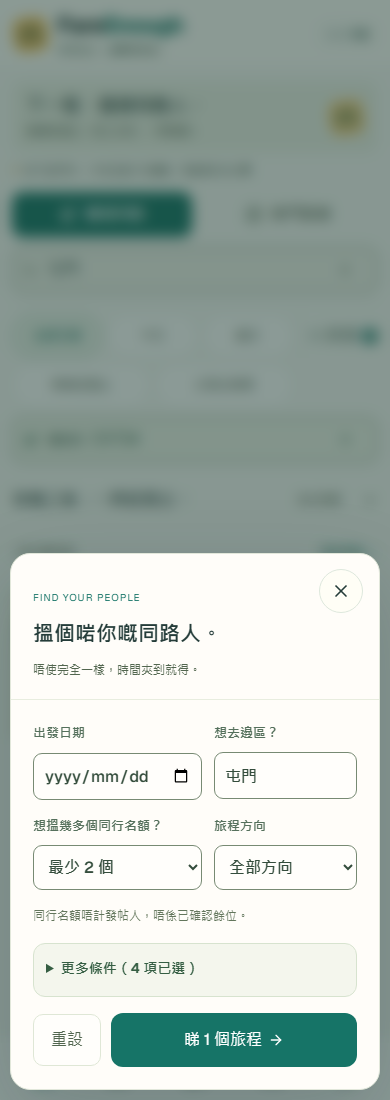
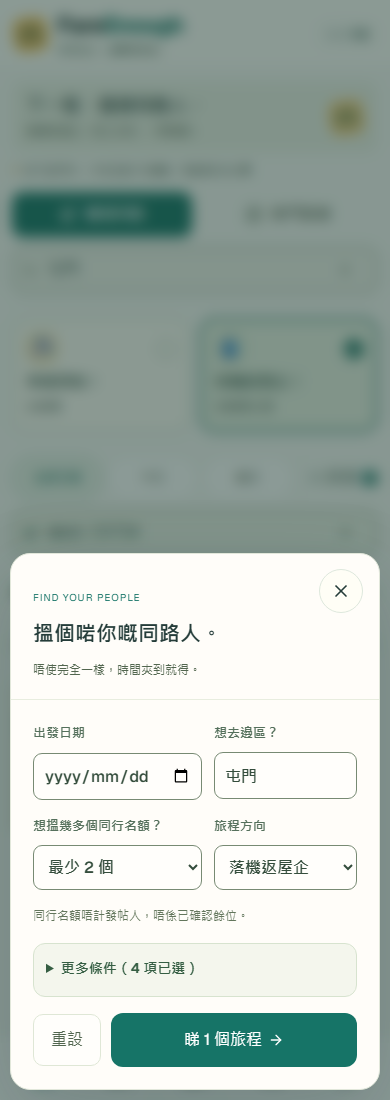
Refine FareEnough airport direction selection

diff --git a/src/app/v2-preview/discovery.tsx b/src/app/v2-preview/discovery.tsx
@@ -324,6 +324,29 @@ export default function Discovery({ today }: { today: string }) {
               )}
             </label>
           </div>
+          {category === "airport" && (
+            <div className={s.airportDirections} role="group" aria-label="機場方向">
+              {([
+                ["to_airport", "✈", "準備飛啦！", "去機場"],
+                ["from_airport", "🧳", "落機返屋企！", "由機場出發"],
+              ] as const).map(([value, icon, title, subtitle]) => (
+                <button
+                  key={value}
+                  type="button"
+                  className={s.airportDirection}
+                  aria-pressed={direction === value}
+                  onClick={() => setDirection(direction === value ? "all" : value)}
+                >
+                  <span className={s.directionIcon} aria-hidden="true">{icon}</span>
+                  <span className={s.directionTitle}>{title}</span>
+                  <span className={s.directionSubtitle}>{subtitle}</span>
+                  <span className={s.directionCheck} aria-hidden="true">
+                    {direction === value && <Check size={14} strokeWidth={3} />}
+                  </span>
+                </button>
+              ))}
+            </div>
+          )}
           <div className={s.filterBar}>
             <div className={s.quickFilters} data-category={category}>
               <button aria-pressed={!day} onClick={() => setDay("")}>
@@ -343,30 +366,7 @@ export default function Discovery({ today }: { today: string }) {
               >
                 聽日
               </button>
-              {category === "airport" ? (
-                <>
-                  <button
-                    aria-pressed={direction === "from_airport"}
-                    onClick={() =>
-                      setDirection(
-                        direction === "from_airport" ? "all" : "from_airport",
-                      )
-                    }
-                  >
-                    落機返屋企
-                  </button>
-                  <button
-                    aria-pressed={direction === "to_airport"}
-                    onClick={() =>
-                      setDirection(
-                        direction === "to_airport" ? "all" : "to_airport",
-                      )
-                    }
-                  >
-                    出發去機場
-                  </button>
-                </>
-              ) : (
+              {category === "routes" && (
                 <>
                   <button
                     aria-pressed={period === "morning"}
@@ -441,7 +441,9 @@ export default function Discovery({ today }: { today: string }) {
               <div>
                 <h2>
                   {category === "airport"
-                    ? "落機之後，一齊返屋企。"
+                    ? direction === "to_airport"
+                      ? "準備飛，一齊去機場。"
+                      : "落機之後，一齊返屋企。"
                     : "熟悉嘅路，識個新同路人。"}
                 </h2>
                 <p>

diff --git a/src/app/v2-preview/preview.module.css b/src/app/v2-preview/preview.module.css
@@ -2573,7 +2573,6 @@
 @media (max-width: 760px) {
   .quickFilters { display: grid; grid-template-columns: repeat(6, minmax(0, 1fr)); flex: 1; overflow: visible; }
   .quickFilters button { grid-column: span 2; padding-left: 4px; padding-right: 4px; }
-  .quickFilters[data-category="airport"] button:nth-child(n+4) { grid-column: span 3; }
   .corridors button { flex-shrink: 0; font-size: 12px; }
   .filterBar { align-items: flex-start; }
   .cardBody .routeMain { font-size: 14px; }
@@ -2585,4 +2584,90 @@
   .cardBody .routeMain { font-size: 13px; }
   .compactSummary { flex-direction: column; }
   .compactSummary .editorPreview { width: 100%; height: 70px; flex-basis: auto; }
+}
+
+/* Airport direction choices share the existing filter state and pastel palette. */
+.airportDirections {
+  display: grid;
+  grid-template-columns: repeat(2, minmax(0, 1fr));
+  gap: 12px;
+  margin: 18px 0 14px;
+}
+.airportDirection {
+  display: grid;
+  grid-template-areas: "icon title check" "icon subtitle check";
+  grid-template-columns: 40px minmax(0, 1fr) 20px;
+  align-items: center;
+  column-gap: 12px;
+  row-gap: 2px;
+  min-width: 0;
+  min-height: 84px;
+  padding: 14px 18px;
+  border: 2px solid #d8e3d2;
+  border-radius: 18px;
+  background: #fffdf7;
+  color: #274d3c;
+  text-align: left;
+  cursor: pointer;
+  box-shadow: 0 2px 6px #274d3c06;
+}
+.airportDirection:hover { border-color: #789780; }
+.airportDirection[aria-pressed="true"] {
+  border-color: #176f60;
+  background: #eaf2e5;
+  box-shadow: 0 3px 10px #176f6010;
+}
+.directionIcon {
+  grid-area: icon;
+  display: grid;
+  place-items: center;
+  width: 40px;
+  height: 40px;
+  border-radius: 13px;
+  background: #fae9bd;
+  font-size: 23px;
+  line-height: 1;
+}
+.airportDirection:nth-child(2) .directionIcon { background: #dce9d4; }
+.directionTitle {
+  grid-area: title;
+  font-size: 16px;
+  font-weight: 750;
+  line-height: 1.6;
+  overflow-wrap: anywhere;
+}
+.directionSubtitle {
+  grid-area: subtitle;
+  color: #4b6655;
+  font-size: 13px;
+  line-height: 1.6;
+  overflow-wrap: anywhere;
+}
+.directionCheck {
+  grid-area: check;
+  display: grid;
+  place-items: center;
+  width: 20px;
+  height: 20px;
+  border: 1px solid #789780;
+  border-radius: 50%;
+}
+.airportDirection[aria-pressed="true"] .directionCheck {
+  color: white;
+  border-color: #176f60;
+  background: #176f60;
+}
+@media (max-width: 600px) {
+  .airportDirections { gap: 10px; margin-top: 14px; }
+  .airportDirection {
+    grid-template-areas: "icon check" "title title" "subtitle subtitle";
+    grid-template-columns: minmax(0, 1fr) 20px;
+    gap: 3px 8px;
+    min-height: 114px;
+    padding: 12px;
+    border-radius: 15px;
+  }
+  .directionIcon { width: 32px; height: 32px; font-size: 21px; border-radius: 11px; margin-bottom: 3px; }
+  .directionTitle { font-size: 15px; }
+  .directionSubtitle { font-size: 12px; }
 }

diff --git a/docs/ux-review/UX-REPORT.md b/docs/ux-review/UX-REPORT.md
@@ -1,16 +1,16 @@
 # FareEnough V2.3 — automated UX review
 
-Generated: 2026-10-22T15:52:37.782Z (UTC). **PASS — complete package**. This is captured evidence and a product inventory, not an accessibility certification or a pixel-diff baseline.
+Generated: 2026-10-22T16:22:50.559Z (UTC). **PASS — complete package**. This is captured evidence and a product inventory, not an accessibility certification or a pixel-diff baseline.
 
 ## Version and reproducibility
 
 - Reviewed UI source commit: [`d31604f0e840062a5b42339c1cf76d0e6a79f77d`](https://github.com/tonylo0929/ridepod/commit/d31604f0e840062a5b42339c1cf76d0e6a79f77d).
-- Generation checkout: `5177292ded8f62594cbc12c3df373ef6e0f05de8`; branch: `feature/ridepod-social-discovery`.
-- UI source files modified/untracked at capture: **no**.
[1 lines of base64/hex data omitted]
+- Generation checkout: `923e8b8f5edb257ac086f7fed1aabaa2ff6f2980`; branch: `feature/ridepod-social-discovery`.
+- UI source files modified/untracked at capture: **yes — source hash below identifies the working copy**.
[1 lines of base64/hex data omitted]
 - Toolchain: Node v24.14.0, Playwright 1.64.1, Chromium 156.0.8078.4, win32.
 - Viewports: mobile **390 × 1100**, desktop **1440 × 1000**, device scale 1, zh-HK locale, Asia/Hong_Kong timezone, reduced motion. PNG viewport captures; modal interiors are scrolled where noted. No content is hidden for screenshots.
-- Server demo date anchor(s): 2026-10-22. “今日/聽日” roll forward on future runs. Each run starts a fresh local production build and new isolated contexts; no saved sessions are loaded.
+- Server demo date anchor(s): 2026-10-23. “今日/聽日” roll forward on future runs. Each run starts a fresh local production build and new isolated contexts; no saved sessions are loaded.
 - The package commit necessarily follows the reviewed checkout because generated files cannot contain their own Git hash. The UI source commit/hash above identify what is pictured. CI artifacts record the actual tested checkout.
 
 ## Screens and navigation
@@ -48,13 +48,13 @@ All fixture people, posts, flight examples and interactions are synthetic. “Li
 
 ## Test results
 
-Run duration: 44.5 seconds. 20/20 curated images; 2704 KiB total; 4 MiB budget **passed**; capture completeness **passed**.
+Run duration: 46.8 seconds. 20/20 curated images; 2644 KiB total; 4 MiB budget **passed**; capture completeness **passed**.
 
 | Test | Status | Duration |
 | --- | --- | --- |
 | logic: airport/count logic and capture network isolation | passed | 0.1s |
-| mobile: curated preview review journeys | passed | 11.5s |
-| desktop: curated preview review journeys | passed | 13.1s |
+| mobile: curated preview review journeys | passed | 12.1s |
+| desktop: curated preview review journeys | passed | 14.7s |
 
 The logic test executes the nine airport/count/copy assertions in `scripts/test-v2-airport-timing.mjs`, plus allow/deny cases for the capture network boundary. Playwright's web server runs `npm run build` (including Next's TypeScript check) before browser tests; a failed build prevents capture. This report does not imply that every production flow or repository test was run.
 
@@ -63,6 +63,7 @@ Both flight inputs are checked with an invalid character and a valid synthetic f
 | Browser flow/assertions | Mobile | Desktop |
 | --- | --- | --- |
 | Homepage: synthetic feed, responsive masonry and no overflow | passed | passed |
+| Airport direction: friendly buttons preserve search/date/flight and synchronize filters | passed | passed |
 | Airport search: route text and normalized optional flight | passed | passed |
 | Airport filters: planned places and district, native-dialog keyboard audit | passed | passed |
 | Popular routes: corridor, recurring filter and empty recovery | passed | passed |
@@ -82,7 +83,7 @@ Detail-cover correction: **18/18** checks cover all nine existing illustrations 
 
 ## Accessibility and usability findings
 
-Automated axe scans run at every captured state and the expanded filter/cover states against WCAG 2 A/AA, 2.1 A/AA and 2.2 AA tags (24 scans). **Contrast and visible-label/name mismatches are mandatory regression gates**; all other findings are also reported. Duplicate occurrences across states are counted, not unique UI defects. No audit rules are disabled or excluded. Incomplete rules requiring human review: **color-contrast**; element-level findings are retained in the JSON artifact. Zero automatic violations does not establish full WCAG conformance.
+Automated axe scans run at every captured state and the expanded filter/cover states against WCAG 2 A/AA, 2.1 A/AA and 2.2 AA tags (26 scans). **Contrast and visible-label/name mismatches are mandatory regression gates**; all other findings are also reported. Duplicate occurrences across states are counted, not unique UI defects. No audit rules are disabled or excluded. Incomplete rules requiring human review: **color-contrast**; element-level findings are retained in the JSON artifact. Zero automatic violations does not establish full WCAG conformance.
 
 | Automated rule | Impact | Affected audited states | Node occurrences across states | Example selector |
 | --- | --- | --- | --- | --- |
@@ -116,8 +117,8 @@ Click an image for its native resolution. The 20-image limit covers ten states a
 
 | State / context | Mobile · 390px | Desktop · 1440px |
 | --- | --- | --- |
-| **Homepage and masonry feed**<br>Default airport feed, with route/date, optional flight, independent interest and capacity, and author. | [![Homepage and masonry feed — mobile](screenshots/mobile-01-homepage.png)](screenshots/mobile-01-homepage.png) | [![Homepage and masonry feed — desktop](screenshots/desktop-01-homepage.png)](screenshots/desktop-01-homepage.png) |
-| **Airport search**<br>Destination search plus a normalized `cx 734` flight filter; one synthetic matching journey. | [![Airport search — mobile](screenshots/mobile-02-airport-search.png)](screenshots/mobile-02-airport-search.png) | [![Airport search — desktop](screenshots/desktop-02-airport-search.png)](screenshots/desktop-02-airport-search.png) |
+| **Homepage and masonry feed**<br>Default airport feed with equal-width 準備飛啦！ / 落機返屋企！ direction buttons, route/date, optional flight, independent interest/capacity, and author. | [![Homepage and masonry feed — mobile](screenshots/mobile-01-homepage.png)](screenshots/mobile-01-homepage.png) | [![Homepage and masonry feed — desktop](screenshots/desktop-01-homepage.png)](screenshots/desktop-01-homepage.png) |
+| **Airport search**<br>Selected 落機返屋企！ direction plus destination search and normalized `cx 734` flight filter; one synthetic matching journey. | [![Airport search — mobile](screenshots/mobile-02-airport-search.png)](screenshots/mobile-02-airport-search.png) | [![Airport search — desktop](screenshots/desktop-02-airport-search.png)](screenshots/desktop-02-airport-search.png) |
 | **Airport filters**<br>Common district/planned places/direction filters, with selected advanced conditions folded away. Places are not confirmed remaining seats. | [![Airport filters — mobile](screenshots/mobile-03-airport-filters.png)](screenshots/mobile-03-airport-filters.png) | [![Airport filters — desktop](screenshots/desktop-03-airport-filters.png)](screenshots/desktop-03-airport-filters.png) |
 | **Popular routes**<br>The 屯門 → 中環 corridor; both one-off and recurring demo journeys are discoverable. | [![Popular routes — mobile](screenshots/mobile-04-popular-routes.png)](screenshots/mobile-04-popular-routes.png) | [![Popular routes — desktop](screenshots/desktop-04-popular-routes.png)](screenshots/desktop-04-popular-routes.png) |
 | **Arrival journey details**<br>Full uncropped illustration and journey overview. Lower airport timing/interest information appears in the before/after states. | [![Arrival journey details — mobile](screenshots/mobile-05-journey-details.png)](screenshots/mobile-05-journey-details.png) | [![Arrival journey details — desktop](screenshots/desktop-05-journey-details.png)](screenshots/desktop-05-journey-details.png) |

diff --git a/docs/ridepod-v2-handover.md b/docs/ridepod-v2-handover.md
@@ -43,7 +43,7 @@ V2 uses the same app and dependencies. It does not replace `/home`, change the d
 - Responsive social discovery: two masonry columns on phones, three on tablets, four on desktop. V2.3 replaces whole-column DOM groups with flat source-ordered cards and measured grid spans; sparse row flow avoids visual/source reordering and overlap.
 - The intro is reduced from roughly 208px to 72px on mobile, with a simple typographic FareEnough wordmark. Routes use 13–14px mobile text; flight badges and departure times use 13px. Interest counts and authors use 12px. The mint, cream and warm yellow palette is retained.
 - Cantonese journey cards prioritize origin/destination, Hong Kong-relative departure date/time, optional flight, independent interest/group counts and author. Luggage, waiting tolerance and airport-exit details live in the detail view to reduce mobile clutter.
-- Airport discovery: arrivals/departures, date, district, planned companion places, earliest shared-car departure time, waiting tolerance, luggage and optional flight filter.
+- Airport discovery: equal-width **✈ 準備飛啦！ — 去機場** and **🧳 落機返屋企！ — 由機場出發** buttons replace the old direction chips inside 機場同路. Native pressed states, selected checkmarks and keyboard activation share the existing direction state with the filter dialog. Switching preserves text/date/flight/advanced filters; tapping the selected direction again restores both directions. Main 機場同路 / 熱門路線 navigation is unchanged. Date, district, planned companion places, earliest shared-car departure, waiting, luggage and optional flight filters remain available.
 - Popular corridors, today/tomorrow, morning/evening, recurring journeys and sorting.
 - Optional flight badges are prominent on feed cards, details and the publishing preview. A direct flight filter accepts lowercase and spaces (for example `cx 734`). Blank flight numbers produce no badge and no fabricated schedule.
 - Journey details in a native accessible modal, with query-addressable sample journeys (for example `/v2-preview?journey=demo-1`). Three separate structured fields represent scheduled flight arrival/takeoff, expected airport exit and planned shared-car departure. Timelines and creation reviews show the full date, year and 24-hour time for each event, with a Hong Kong time note. Arrivals prioritize exit and car departure; outbound trips show car departure before scheduled takeoff. `demo-3` illustrates departure today at 21:50 and takeoff tomorrow at 00:17; anchored to 21 October 2026, these display 21 and 22 October respectively. Changing the car date does not silently move the flight/exit dates. Chronology is validated even when the optional exit time is absent. No field claims live flight information.
